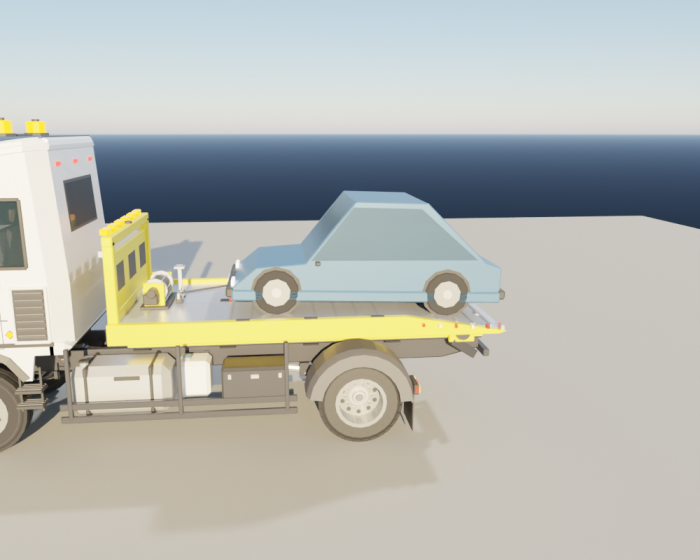
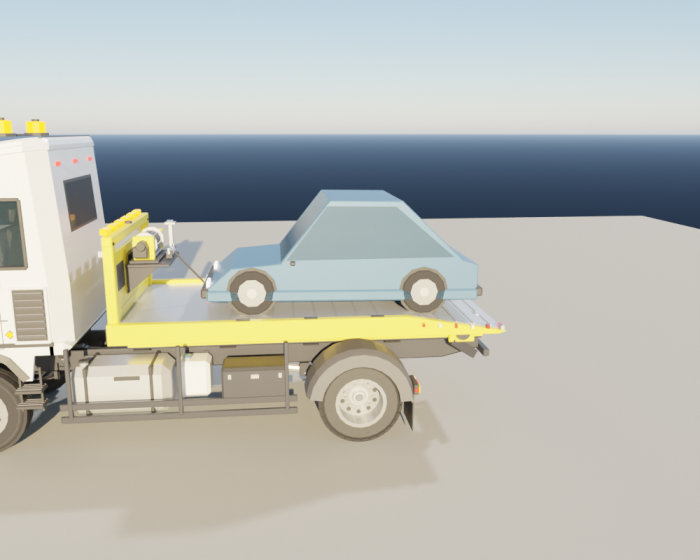
Blender: odtahovky - navijak hore na celnej stene plosiny
Claude-Session: https://claude.ai/code/session_01LJyXRKJzkeHGHPvKuFtRQJ

Changed region(s): [[0.15, 0.3339, 0.72, 0.5768]]

diff --git a/Blender/odtahovky_low_poly.py b/Blender/odtahovky_low_poly.py
@@ -3051,6 +3051,10 @@ def build_pl_winch(style):
     # navijak (pevna cast, maly): ram, hydromotor, drziak haku, lanova vodiaca kladka; pivot na podlahe v strede, dozadu je -X; buben je zvlast
     eu = style == "eu"
     bm = bmesh.new()
+    # polica na celnej stene (stena je +0.22 pred stredom navijaka) s dvoma konzolami
+    add_box(bm, (0.54, 0.90, 0.04), (-0.05, 0.0, -0.02), FRAME, bev=0.006)
+    for s in SIDES_LR:
+        add_extruded(bm, [(0.22, -0.04), (-0.18, -0.04), (0.22, -0.38)], s * 0.40 - 0.02, s * 0.40 + 0.02, "XZ", FRAME, bev=0.004)
     add_box(bm, (0.36, 0.80, 0.04), (0.0, 0.0, 0.02), FRAME, bev=0.006)
     for s in SIDES_LR:
         add_box(bm, (0.26, 0.04, 0.30), (0.0, s * 0.34, 0.19), ACCENT, bev=0.008)
@@ -3317,10 +3321,11 @@ def pl_rig(coll, truck, parts, body, root, prop, mats):
     xf, zt = g["xf"], g["zt"]
     accent(rails, truck, mats)
     accent(new_object(coll, name + "_celna_stena", parts["Odt_od_celna_stena_" + style], (xf, 0.0, zt), bed), truck, mats)
-    winch = accent(new_object(coll, name + "_navijak", parts["Odt_od_navijak_" + style], (xf - 0.40, 0.0, zt), bed), truck, mats)
+    zw = 0.60 if style == "eu" else 0.85
+    winch = accent(new_object(coll, name + "_navijak", parts["Odt_od_navijak_" + style], (xf - 0.31, 0.0, zt + zw), bed), truck, mats)
     drum = new_object(coll, name + "_navijak_buben", parts["Odt_od_navijak_buben"], (0.0, 0.0, 0.22), winch)
     fair = empty(coll, name + "_navijak_vodiaca", (-0.28, 0.0, 0.12), winch)
-    holder = empty(coll, name + "_hak_drziak", (xf - 0.66, -0.20, zt + 0.48), bed)
+    holder = empty(coll, name + "_hak_drziak", (xf - 0.31 - 0.26, -0.20, zt + zw + 0.48), bed)
     hook = new_object(coll, name + "_hak", parts["Odt_od_hak"], (0.0, 0.0, 0.0), holder)
     hook.scale = (0.6, 0.6, 0.6)
     con = hook.constraints.new("COPY_LOCATION")
@@ -3328,7 +3333,7 @@ def pl_rig(coll, truck, parts, body, root, prop, mats):
     cable = new_object(coll, name + "_lano", parts["Odt_od_lano"], (0.0, 0.0, 0.0), fair)
     track(cable, hook, "TRACK_Z")
     driver(cable, "scale", 2, "d", [("d", "DIST", (fair, hook))])
-    d0 = Vector((xf - 0.66 - (xf - 0.40 - 0.28), -0.20, zt + 0.48 - (zt + 0.12))).length
+    d0 = Vector((-0.26 + 0.28, -0.20, 0.48 - 0.12)).length
     driver(drum, "rotation_euler", 1, "-(d - %.4f) / 0.12" % d0, [("d", "DIST", (fair, hook))])
     t, sc = pl_tilt_cyl(g), pl_slide_cyl(g)
     for s, side in ((1.0, "L"), (-1.0, "P")):
@@ -3361,7 +3366,7 @@ def pl_animate_car(truck, root):
     path, surf = pl_rail_path(g, car)
     wb, fo, rw = car["wb"], car["fo"], car["rw"]
     m_end = pl_bed_matrix(g, 1.0, 1.0)
-    f_end = m_end @ Vector((g["xf"] - 1.40 - fo, 0.0, g["zt"] + rw))
+    f_end = m_end @ Vector((g["xf"] - 1.10 - fo, 0.0, g["zt"] + rw))
     s_end = path_param(path, Vector((f_end.x, f_end.z)))
     s_start = path_param(path, Vector((surf[1].x - 1.3 - fo, rw)))
 
@@ -3427,7 +3432,7 @@ def _pl_doc():
         "  Sklopny podram: prazdny objekt <Auto>_plosina_klb (pivot v osi klbu vzadu na rame, os Y, otaca sa o -Plosina_sklon x uhol, zadok ide dole). Jeho deti:",
         "    podram (diel Odt_od_podram_<podvozok>: dva nosniky s valcekmi, priecniky, cap), plosina (Odt_od_plosina_<styl>_<podvozok>, pohyb v X o -Plosina_odsun x odsun),",
         "    valce odsunu (zaklad na podrame vpredu). Plosina ma na zadnom konci skosenie (%.2f m) a spicka sa po odsune dotkne zeme." % PL_WEDGE,
-        "  Dieta plosiny: celna stena (pivot na prednej hrane na podlahe), navijak (maly, pivot na podlahe v strede, 0.40 m za prednou hranou), jeho buben (otaca sa podla vzdialenosti haku),",
+        "  Dieta plosiny: celna stena (pivot na prednej hrane na podlahe), navijak (maly, hore na celnej stene: pivot na jeho polici v strede, 0.31 m za prednou hranou a 0.60 m (eu) / 0.85 m (us) nad podlahou), jeho buben (otaca sa podla vzdialenosti haku),",
         "    prazdny objekt navijak_vodiaca (vystup lana, zaklad lana) a hak_drziak (miesto haku v pokoji).",
         "  Lano (Odt_od_lano, jednotkova dlzka v +Z): zaklad na vodiacej kladke, mieri (track Z) na hak, mierka Z = vzdialenost vodiacej kladky a haku.",
         "  Hak (Odt_od_hak) je dieta hak_drziak; constraint Copy Location 'Na_aute' (cielom je prazdny objekt auto_oko = tazne oko auta) ma vplyv = vlastnost Hak_k_autu (0 = v drziaku, 1 = na aute).",
